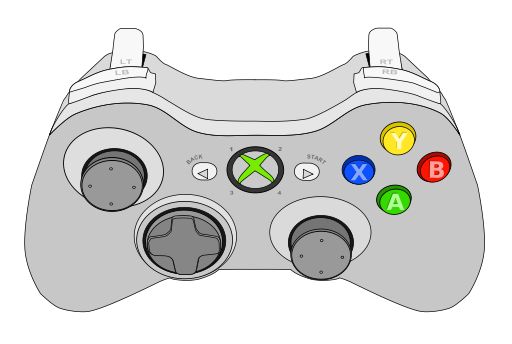
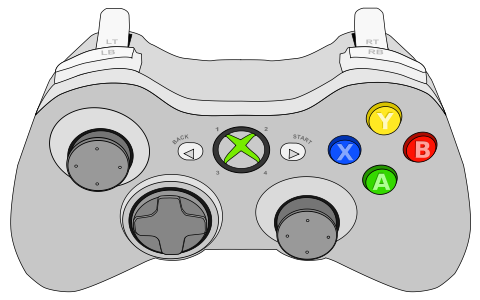
improved customizability of game controller configuration screen

diff --git a/src/screens.c b/src/screens.c
@@ -6519,17 +6519,21 @@ static boolean OLD_CalibrateJoystickMain(int player_nr)
 static boolean ConfigureJoystickMapButtonsAndAxes(SDL_Joystick *joystick)
 {
 #if defined(TARGET_SDL2)
+  static boolean bitmaps_initialized = FALSE;
+  boolean screen_initialized = FALSE;
   static Bitmap *controller, *button, *axis_x, *axis_y;
   Bitmap *marker;
-  boolean bitmaps_initialized = FALSE;
-  boolean screen_initialized = FALSE;
-  const char *name = NULL;
+  char *name;
   boolean success = TRUE;
   boolean done = FALSE, next = FALSE;
   Event event;
   int alpha = 200, alpha_step = -1;
   int alpha_ticks = 0;
   char mapping[4096], temp[4096];
+  int font_name = FONT_TEXT_1;
+  int font_info = FONT_REQUEST;
+  int ystep1 = getFontHeight(font_name) + 2;
+  int ystep2 = getFontHeight(font_info) + 2;
   int i, j;
 
   struct
@@ -6542,27 +6546,27 @@ static boolean ConfigureJoystickMapButtonsAndAxes(SDL_Joystick *joystick)
   }
   *step, *prev_step, steps[] =
   {
-    { 370, 175, MARKER_BUTTON, "a",		},
-    { 410, 142, MARKER_BUTTON, "b",		},
-    { 334, 145, MARKER_BUTTON, "x",		},
-    { 372, 115, MARKER_BUTTON, "y",		},
-    { 176, 145, MARKER_BUTTON, "back",		},
-    { 230, 145, MARKER_BUTTON, "guide",		},
-    { 285, 145, MARKER_BUTTON, "start",		},
-    { 124, 220, MARKER_BUTTON, "dpleft",	},
-    { 160, 248, MARKER_BUTTON, "dpdown",	},
-    { 192, 220, MARKER_BUTTON, "dpright",	},
-    { 160, 192, MARKER_BUTTON, "dpup",		},
-    {  64,  60, MARKER_BUTTON, "leftshoulder",	},
-    { 102,  10, MARKER_AXIS_Y, "lefttrigger",	},
-    { 396,  60, MARKER_BUTTON, "rightshoulder",	},
-    { 360,  10, MARKER_AXIS_Y, "righttrigger",	},
-    {  87, 161, MARKER_BUTTON, "leftstick",	},
-    { 296, 230, MARKER_BUTTON, "rightstick",	},
-    {  87, 161, MARKER_AXIS_X, "leftx",		},
-    {  87, 161, MARKER_AXIS_Y, "lefty",		},
-    { 296, 230, MARKER_AXIS_X, "rightx",	},
-    { 296, 230, MARKER_AXIS_Y, "righty",	},
+    { 356, 155, MARKER_BUTTON, "a",		},
+    { 396, 122, MARKER_BUTTON, "b",		},
+    { 320, 125, MARKER_BUTTON, "x",		},
+    { 358,  95, MARKER_BUTTON, "y",		},
+    { 162, 125, MARKER_BUTTON, "back",		},
+    { 216, 125, MARKER_BUTTON, "guide",		},
+    { 271, 125, MARKER_BUTTON, "start",		},
+    { 110, 200, MARKER_BUTTON, "dpleft",	},
+    { 146, 228, MARKER_BUTTON, "dpdown",	},
+    { 178, 200, MARKER_BUTTON, "dpright",	},
+    { 146, 172, MARKER_BUTTON, "dpup",		},
+    {  50,  40, MARKER_BUTTON, "leftshoulder",	},
+    {  88, -10, MARKER_AXIS_Y, "lefttrigger",	},
+    { 382,  40, MARKER_BUTTON, "rightshoulder",	},
+    { 346, -10, MARKER_AXIS_Y, "righttrigger",	},
+    {  73, 141, MARKER_BUTTON, "leftstick",	},
+    { 282, 210, MARKER_BUTTON, "rightstick",	},
+    {  73, 141, MARKER_AXIS_X, "leftx",		},
+    {  73, 141, MARKER_AXIS_Y, "lefty",		},
+    { 282, 210, MARKER_AXIS_X, "rightx",	},
+    { 282, 210, MARKER_AXIS_Y, "righty",	},
   };
 
   unsigned int event_frame_delay = 0;
@@ -6580,12 +6584,12 @@ static boolean ConfigureJoystickMapButtonsAndAxes(SDL_Joystick *joystick)
     bitmaps_initialized = TRUE;
   }
 
+  name = getFormattedJoystickName(SDL_JoystickName(joystick));
+
   /* print info about the joystick we are watching */
-  name = SDL_JoystickName(joystick);
-  Error(ERR_DEBUG, "Watching joystick %d: (%s)\n",
-	SDL_JoystickInstanceID(joystick),
-	(name ? name : "(unknown joystick)"));
-  Error(ERR_DEBUG, "Joystick has %d axes, %d hats, %d balls, and %d buttons\n",
+  Error(ERR_DEBUG, "watching joystick %d: (%s)\n",
+	SDL_JoystickInstanceID(joystick), name);
+  Error(ERR_DEBUG, "joystick has %d axes, %d hats, %d balls, and %d buttons\n",
 	SDL_JoystickNumAxes(joystick), SDL_JoystickNumHats(joystick),
 	SDL_JoystickNumBalls(joystick), SDL_JoystickNumButtons(joystick));
 
@@ -6593,7 +6597,7 @@ static boolean ConfigureJoystickMapButtonsAndAxes(SDL_Joystick *joystick)
   SDL_JoystickGetGUIDString(SDL_JoystickGetGUID(joystick), temp, sizeof(temp));
 
   snprintf(mapping, sizeof(mapping), "%s,%s,platform:%s,",
-	   temp, name ? name : "Unknown Joystick", SDL_GetPlatform());
+	   temp, name, SDL_GetPlatform());
 
   /* loop through all steps (buttons and axes), getting joystick events */
   for (i = 0; i < SDL_arraysize(steps) && !done;)
@@ -6627,42 +6631,48 @@ static boolean ConfigureJoystickMapButtonsAndAxes(SDL_Joystick *joystick)
 	alpha_step = 1;
       }
 
-      ClearField();
-
-      DrawTextSCentered(mSY - SY + 22 * 16, FONT_REQUEST,
-			"Press buttons and move axes on");
-      DrawTextSCentered(mSY - SY + 23 * 16, FONT_REQUEST,
-			"your controller when indicated.");
-      DrawTextSCentered(mSY - SY + 24 * 16, FONT_REQUEST,
-			"(Your controller may look different.)");
-
-#if defined(PLATFORM_ANDROID)
-      DrawTextSCentered(mSY - SY + 26 * 16, FONT_REQUEST,
-			"To correct a mistake,");
-      DrawTextSCentered(mSY - SY + 27 * 16, FONT_REQUEST,
-			"press the 'back' button.");
-      DrawTextSCentered(mSY - SY + 28 * 16, FONT_REQUEST,
-			"To skip a button or axis,");
-      DrawTextSCentered(mSY - SY + 29 * 16, FONT_REQUEST,
-			"press the 'menu' button.");
-#else
-      DrawTextSCentered(mSY - SY + 26 * 16, FONT_REQUEST,
-			"To correct a mistake,");
-      DrawTextSCentered(mSY - SY + 27 * 16, FONT_REQUEST,
-			"press the 'backspace' key.");
-      DrawTextSCentered(mSY - SY + 28 * 16, FONT_REQUEST,
-			"To skip a button or axis,");
-      DrawTextSCentered(mSY - SY + 29 * 16, FONT_REQUEST,
-			"press the 'return' key.");
-      DrawTextSCentered(mSY - SY + 30 * 16, FONT_REQUEST,
-			"To exit, press the 'escape' key.");
-#endif
-
-      int controller_x = gfx.sx + (gfx.sxsize - controller->width) / 2;
-      int controller_y = gfx.sy;
+      int controller_x = SX + (SXSIZE - controller->width) / 2;
+      int controller_y = SY + ystep2;
 
       int marker_x = controller_x + step->x;
       int marker_y = controller_y + step->y;
+
+      int ystart1 = mSY - 2 * SY + controller_y + controller->height;
+      int ystart2 = ystart1 + ystep1 + ystep2;
+
+      ClearField();
+
+      DrawTextSCentered(ystart1, font_name, name);
+
+      DrawTextSCentered(ystart2 + 0 * ystep2, font_info,
+			"Press buttons and move axes on");
+      DrawTextSCentered(ystart2 + 1 * ystep2, font_info,
+			"your controller when indicated.");
+      DrawTextSCentered(ystart2 + 2 * ystep2, font_info,
+			"(Your controller may look different.)");
+
+#if defined(PLATFORM_ANDROID)
+      DrawTextSCentered(ystart2 + 4 * ystep2, font_info,
+			"To correct a mistake,");
+      DrawTextSCentered(ystart2 + 5 * ystep2, font_info,
+			"press the 'back' button.");
+      DrawTextSCentered(ystart2 + 6 * ystep2, font_info,
+			"To skip a button or axis,");
+      DrawTextSCentered(ystart2 + 7 * ystep2, font_info,
+			"press the 'menu' button.");
+#else
+      DrawTextSCentered(ystart2 + 4 * ystep2, font_info,
+			"To correct a mistake,");
+      DrawTextSCentered(ystart2 + 5 * ystep2, font_info,
+			"press the 'backspace' key.");
+      DrawTextSCentered(ystart2 + 6 * ystep2, font_info,
+			"To skip a button or axis,");
+      DrawTextSCentered(ystart2 + 7 * ystep2, font_info,
+			"press the 'return' key.");
+
+      DrawTextSCentered(ystart2 + 8 * ystep2, font_info,
+			"To exit, press the 'escape' key.");
+#endif
 
       BlitBitmapMasked(controller, drawto, 0, 0,
 		       controller->width, controller->height,

diff --git a/src/libgame/joystick.c b/src/libgame/joystick.c
@@ -119,6 +119,39 @@ char *getDeviceNameFromJoystickNr(int joystick_nr)
 	  joystick_device_name[joystick_nr] : "");
 }
 
+char *getFormattedJoystickName(const char *name_raw)
+{
+  static char name[MAX_JOYSTICK_NAME_LEN + 1];
+  boolean name_skip_space = TRUE;
+  int i, j;
+
+  if (name_raw == NULL)
+    name_raw = "(unknown joystick)";
+
+  // copy joystick name, cutting leading and multiple spaces
+  for (i = 0, j = 0; i < strlen(name_raw) && i < MAX_JOYSTICK_NAME_LEN; i++)
+  {
+    if (name_raw[i] != ' ')
+    {
+      name[j++] = name_raw[i];
+      name_skip_space = FALSE;
+    }
+    else if (!name_skip_space)
+    {
+      name[j++] = name_raw[i];
+      name_skip_space = TRUE;
+    }
+  }
+
+  // cut trailing space
+  if (j > 0 && name[j - 1] == ' ')
+    j--;
+
+  name[j] = '\0';
+
+  return name;
+}
+
 static int JoystickPositionPercent(int center, int border, int actual)
 {
   int range, position;

diff --git a/src/libgame/joystick.h b/src/libgame/joystick.h
@@ -21,6 +21,8 @@
 #define JOYSTICK_NOT_CONFIGURED	(1 << 3)
 #define JOYSTICK_ACTIVATED	(JOYSTICK_AVAILABLE | JOYSTICK_ACTIVE)
 
+#define MAX_JOYSTICK_NAME_LEN	40
+
 #if defined(PLATFORM_FREEBSD)
 #define DEV_JOYSTICK_0		"/dev/joy0"
 #define DEV_JOYSTICK_1		"/dev/joy1"
@@ -69,6 +71,7 @@ char *getJoyNameFromJoySymbol(int);
 int getJoySymbolFromJoyName(char *);
 int getJoystickNrFromDeviceName(char *);
 char *getDeviceNameFromJoystickNr(int);
+char *getFormattedJoystickName(const char *);
 
 void CheckJoystickData(void);
 int Joystick(int);
